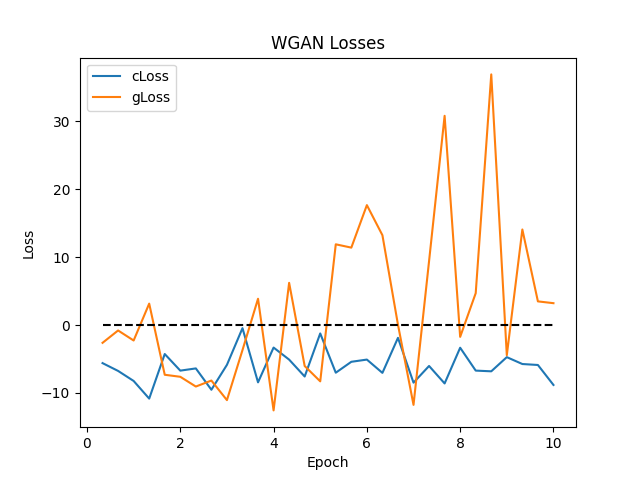
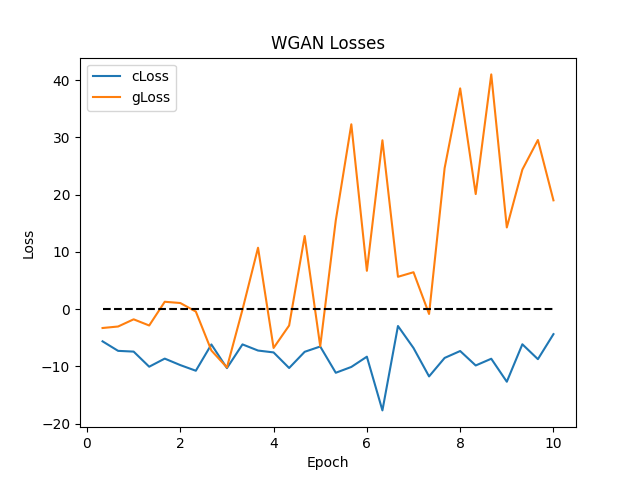
simplified basic cnn classifier

diff --git a/src/networks/gans/stateFulGan.py b/src/networks/gans/stateFulGan.py
@@ -12,6 +12,7 @@ from processData.binaryCasasProcess import binaryCasasData as bcData, postProces
 
 
 MODEL_DIR = fp.folder.kmModel + "wgan/"
+IMG_FOLDER = fp.folder.img + "statefulGan/"
 # def classifier_naming
 
 LSTM_GENERATOR_NAME = "LSTM_Generator"
@@ -55,6 +56,15 @@ def get_conv_generator() -> keras.models.Model:
     # model.compile(loss = keras.losses.CategoricalCrossentropy(),
     #               optimizer = defaults.optimizer(), metrics = defaults.METRICS)
     return model
+
+def nn_diagram(model, imgFile=None):
+    if imgFile is None:
+        imgFile = IMG_FOLDER + model.name + ".png"
+    keras.utils.plot_model(model, to_file=imgFile,
+                              show_shapes=True,
+                              show_layer_activations=True,
+                              show_dtype=True,
+                              show_layer_names=True)
 
 def get_lstm_generator(batchSize=BATCH_SIZE) -> keras.models.Model:
     # goal: 16 X 48
@@ -191,12 +201,12 @@ def run_gan(gan, epochs=NEPOCHS):
 
     return gan
 
-def get_synthetic_data(loadGan=True, timeStepsFactor=10, nEpochs=NEPOCHS):
+def get_synthetic_data(loadGan=True, timeStepsFactor=100, nEpochs=NEPOCHS):
     #timeStepsFactor is multiplied by the number of generator time steps (n)
     #so timeStepsFactor=10, n=16 -> 10*16 = 160 time steps on the output
     gan = get_gan(loadGan)
     if nEpochs:
-        gan = run_gan(gan, epochs=NEPOCHS)
+        gan = run_gan(gan, epochs=nEpochs)
     genOut = genApi.get_nBatches_lstm(timeStepsFactor, gen=gan.generator, noiseDim=NOISE_DIM, batchSize=BATCH_SIZE)
     genOut = postProc.gen_out_to_real_normalized(genOut.numpy())
     return genOut
@@ -205,15 +215,21 @@ if __name__ == "__main__":
     if gv.DEBUG:
         common.enable_tf_debug()
 
-    # loadGan = True
-    loadGan = False
-    genOut = get_synthetic_data(loadGan, nEpochs=1)
+    loadGan = True
+    # loadGan = False
+    # genOut = get_synthetic_data(loadGan, timeStepsFactor=100, nEpochs=0)
 
-    # gan = get_gan(loadGan)
+    gan = get_gan(loadGan)
+    nn_diagram(gan.generator)
+    # nn_diagram(gan.critic)
     # gan = run_gan(gan)
     # genOut = genApi.get_nBatches_lstm(10, gen=gan.generator, noiseDim=NOISE_DIM, batchSize=BATCH_SIZE)
     # genOutProc = postProc.gen_out_to_real_normalized(genOut.numpy())
 
     if gv.DEBUG:
         plt.show()
+
+    from networks.classifiers import binaryCasasClassifier as bcc
+    classifier = bcc.basic_cnn()
+    nn_diagram(classifier)
     exit()

diff --git a/src/networks/classifiers/binaryCasasClassifier.py b/src/networks/classifiers/binaryCasasClassifier.py
@@ -113,10 +113,9 @@ def trtr(title):
 
 def basic_cnn() -> keras.models.Model:
     inputLayer = keras.Input(shape=(N_TIME_STEPS, len(bcNames.features))) #should be 48 channels
-    x = cBlocks.conv_block(inputLayer, 24, defaults.leaky_relu(),) #16 timesteps
-    x = cBlocks.conv_block(x, 15, defaults.leaky_relu()) #8 timesteps
-    x = cBlocks.conv_block(x, 11, defaults.leaky_relu()) #4 timesteps
-    x = cBlocks.conv_block(x, 8, defaults.leaky_relu()) #2 timesteps
+    x = cBlocks.conv_block(inputLayer, 24, defaults.leaky_relu(),) #8 timesteps
+    x = cBlocks.conv_block(x, 15, defaults.leaky_relu()) #4 timesteps
+    x = cBlocks.conv_block(x, 11, defaults.leaky_relu()) #2 timesteps
     x = cBlocks.conv_block(x, len(bcNames.allActivities), activation=keras.activations.softmax)
     x = l.Flatten()(x)
     model = keras.models.Model(inputLayer, x, name="Basic_CNN_Classifier")
